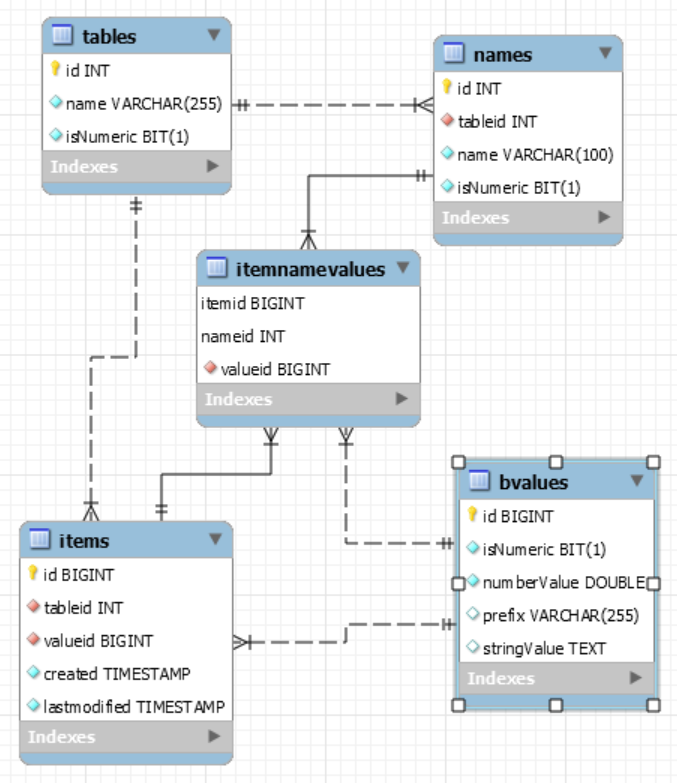
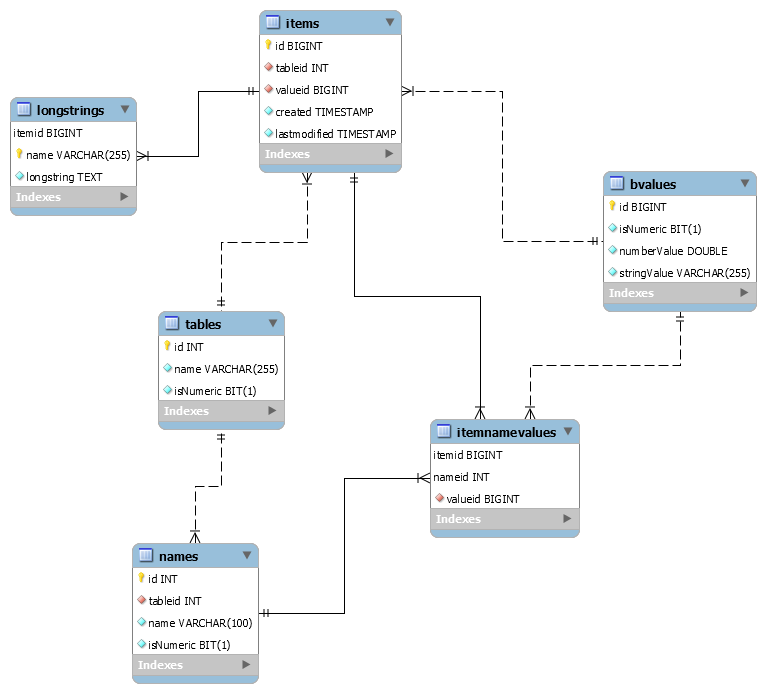
Took hacksaw to code, now taking hacksaw to docs

diff --git a/docs/index.html b/docs/index.html
@@ -58,14 +58,6 @@
 
             <li>
                 <a href="#gettingstarted">Getting Started</a>
-                <ol>
-                    <li><a href="#schema">internal db schema</a></li>
-                    <li><a href="#server">metastringserver</a></li>
-                    <li><a href="#msloader">msloader</a></li>
-                    <li><a href="#fscsv">fscsv</a></li>
-                    <li><a href="#msquery">msquery</a></li>
-                    <li><a href="#metafiles">metafiles</a></li>
-                </ol>
             </li>
         </ul>
 		
@@ -78,33 +70,6 @@
         <ul>
             <li><a href="#libraries">intro</a></li>
             <li>
-                <a href="#client">client</a>
-                <ol>
-                    <li><a href="#definecsv">define</a></li>
-                    <li><a href="#query">query</a></li>
-                    <li><a href="#api">api</a></li>
-                    <li><a href="#ops">ops</a></li>
-                    <li><a href="#queries">queries</a></li>
-                </ol>
-            </li>
-            <li>
-                <a href="#csv">csv</a>
-                <ol>
-                    <li><a href="#CsvPrep">CsvPrep</a></li>
-                    <li><a href="#CsvParser">CsvParser</a></li>
-                    <li><a href="#CsvTextReader">CsvTextReader</a></li>
-                </ol>
-            </li>
-            <li>
-                <a href="#lib-types">lib - types</a>
-                <ol>
-                    <li><a href="#Tables">Tables</a></li>
-                    <li><a href="#Items">Items</a></li>
-                    <li><a href="#Names">Names</a></li>
-                    <li><a href="#Values">Values</a></li>
-                    <li><a href="#NameValues">NameValues</a></li>
-                </ol>
-
                 <a href="#lib-mechanics">lib - mechanics</a>
                 <ol>
                     <li><a href="#Sql">Sql</a></li>
@@ -112,6 +77,15 @@
                     <li><a href="#Context">Context</a></li>
                     <li><a href="#Reader">Reader</a></li>
                     <li><a href="#Server">Server</a></li>
+                </ol>
+				
+                <a href="#lib-types">lib - types</a>
+                <ol>
+                    <li><a href="#Tables">Tables</a></li>
+                    <li><a href="#Items">Items</a></li>
+                    <li><a href="#Names">Names</a></li>
+                    <li><a href="#Values">Values</a></li>
+                    <li><a href="#NameValues">NameValues</a></li>
                 </ol>
             </li>
             <li>
@@ -133,13 +107,6 @@
             <li>Dynamic schema, easily add new columns and ignore stale columns</li>
             <li>Automatic indexing on every column, including full-text</li>
             <li>Internally normalized storage supports denormalized schemas</li>
-            <li>
-                Choose between 
-                <a href="https://www.sqlite.org/index.html">SQLite</a> 
-                and 
-                <a href="https://www.mysql.com/">MySQL</a>
-                to power metastrings
-            </li>
         </ol>
 
         <h1><a name="gettingstarted">Getting Started</a></h1>
@@ -148,145 +115,21 @@
         on GitHub
         <br>
         <br>
-        There are two ways to integrate metastrings into your codebase
-        <ol>
-            <li>
-                Use the <a href="#client">client API</a> in your application,
-                and run <a href="#server">metastringserver</a> on your server
-                <br>
-                This is the client-server database architecture,
-                like how you use
-                MySQL 
-                or 
-                <a href="https://www.postgresql.org/">PostreSQL</a>
-                <br>
-                Streaming I/O between client and server makes for high throughput and low resource usage
-            </li>
-            <li>
-                Use the <a href="#Command">Command class</a> in your application with no separate server
-                <br>
-                This is the server-less database architecture, 
-                used by SQLite 
-                and 
-                <a href="https://www.microsoft.com/en-us/microsoft-365/access">Microsoft Access</a>
-                <br>
-                The benefit of this approach is lower overhead and no separate server to maintain
-            </li>
-        </ol>
-
-        There are two database engines to choose to power metastrings
-        <ol>
-            <li>
-                SQLite - A file-based server-less SQL database engine
-                <br>
-                It is best suited to write once / read many,
-                not for general read/write access
-            </li>
-            <li>
-                MySQL - A general purpose client-server SQL database
-                <br>
-                No match for SQLite for absolute performance, 
-                but well suited to day-to-day read/write access
-            </li>
-        </ol>
-
-        <table border=1>
-            <tr>
-                <th>&nbsp;</th>
-                <th>Client-Server</th>
-                <th>Server-less</th>
-            </tr>
-            <tr>
-                <th>SQLite</th>
-                <td>
-                    Wrap SQLite in a client-server package for sharing a database.
-                    This is best employed for a period of single-user writing, 
-                    followed by multi-user read access
-                </td>
-                <td>
-                    For a desktop application in need of a database,
-                    put the metastrings NoSQL interface on top of SQLite
-                    for high productivity and simple database maintenance
-                </td>
-            </tr>
-            <tr>
-                <th>MySQL</th>
-                <td>
-                    Not recommended.  
-                    Adding another network layer on top of MySQL just adds unnecessary overhead
-                </td>
-                <td>
-                    A great combination of technologies;
-                    add NoSQL dynamic schema and automatic indexing to an awesome SQL database engine,
-                    and you've got amazing technology to power your next database project
-                </td>
-            </tr>
-        </table>
-        <br>
+		metastrings is a .NET class library that extends the functionality of a MySQL database.
+		This is a great combination of technologies;
+		add NoSQL dynamic schema and automatic indexing to an awesome SQL database engine,
+		and you've got amazing technology to power your next database project
 		
         <h3><a name="schema">Internal Database Schema</a></h3>
 		<img src="diagram.png">
 		<br>
         
-        <h2>Client-Server</h2>
-        metastrings ships with these programs for the client-server architecture...
-        <ol>
-            <li>
-                <a class=topic name=server>metastringserver</a>
-                -
-                For the client-server configuration, this is the HttpListener-driven server
-                <br>
-                Configure the .config file, especially where to put the database file, then you're off to the races!
-                <pre>
-Config settings:
-port - TCP port to bind to a serve
-log - Whether to write high-level goings to the console
-dump - Whether to write all JSON requests and responses to the console
-time - Whether to enable ScopeTiming so programs can get performance profiles</pre>
-            </li>
-            <li>
-                <a class=topic name=msloader>msloader</a>
-                -
-                CSV-ingesting client-server program for loading the database
-                <br>
-                As a quick test,
-                pipe the output of fscsv into msloader to load the database with file system data
-                <pre>
-Usage: msloader &lt;server URL&gt; &lt;table name&gt; [-reset] [-cold] [-time]
--reset: remove the Items from the database; add -cold to remove all names and values
--time: output a performance profile of where things took so long</pre>
-            </li>
-            <li>
-                <a class=topic name=fscsv>fscsv</a>
-                -
-                CSV-generating program for describing a file system
-                <br>
-                Provide one or more directory paths on the command prompt,
-                and it will get info about the files in those directories and output these as CSV to stdout
-                <br><br>
-            </li>
-            <li>
-                <a class=topic name=msquery>msquery</a>
-                -
-                Schema-describing, query-issuing, and SQL query-describing client-server client program
-                <pre>
-Usage: msquery &lt;server URL> [-schema &lt;table name, or -any-&gt;] [-query &lt;query file path&gt;] -sql -csv
--schema: use this to dump the column names for one table or all tables in the server
--query: use this to provide metastrings SQL to execute
-    pass -sql to output the SQLite SQL generated from the metastrings SQL
-    pass -csv to output results in CSV format, otherwise it's in a basic JSON-like name-value output</pre>
-            </li>
-            <li>
-                <a class=topic name=msquery>metaq</a>
-                -
-				Server-less interactive command processor
-				<br>
-				<br>
-				This is a very powerful tool for troubleshooting queries.
-				You enter your SQL queries, then the values for each parameter in the query,
-				and it writes your query, then the SQLite or MySQL query generated by metastrings to metaq.log in the current directory.
-				It also writes the query results to that file, so you get a complete query-to-results snapshot.
-                <pre>
+        <h3>metaq</h3>
+		metaq is a powerful tool for troubleshooting queries.
+		You enter your SQL query, then the value for each parameter in the query,
+		and it writes your query, then the SQLite or MySQL query generated by metastrings to metaq.log in the current directory.
+		It also writes the query results to that file, so you get a complete query-to-results snapshot.
+		<pre>
 > select id, title from beats where title matches @title
 
 @title: Fresh
@@ -298,102 +141,18 @@ relevance: 2.353236198425293
 Results: 1
 
 ></pre>          
-			</li>
-            <li>
-                <a class=topic name=metafiles>metafiles</a>
-                Benchmark for comparing MySQL and metastrings ingestion performance
-                <br>
-                <pre>Usage: metafiles &lt;path to directory to index and query&gt; ...</pre>
-                Pass one or more directory paths, and it gets file system info for every file and loads this info into
-				a MySQL table and a metastrings table
-                <br>
-                Initial results show that when metastrings has not seen the files before, it takes about as long as MySQL
-                <br>
-                If metastrings has the files, it's over 2X faster than MySQL, so metastrings is great at UPSERT
-                <br>
-                In terms of space on disk, metastrings' data file is about 25% larger than the MySQL schema size
-                <br>
-                So you trade a little cold ingestion performance and a little storage on disk, 
-				for the <a href="#features">features</a> outlined above
-            </li>
-        </ol>
 
-        <h2>Libraries</h2>
-        <h3><a name=libraries>intro</a></h3>
-        All libraries are built into one assembly, mslib.
-        They were once separate assemblies,
-        but this proved unwieldy when using different libraries in different situations
-
-        <h3><a name=client>client</a></h3>
-        This is the library that client-server clients use to interact with the database server
+        <h3><a name=lib-mechanics>lib-mechanics</a></h3>
+		Classes you interact with to implement your application
         <ul>
             <li>
-                <a class=topic name=definecsv>define</a> - streaming upsert
-                <ol>
-                    <li>Begin - Specify the table and column names</li>
-                    <li>WriteRecord - Write a row of data</li>
-                    <li>End - Finish up processing</li>
-                </ol>
-            </li>
-            <li>
-                <a class=topic name=query>query</a> - streaming SQL-like querying
-                <ol>
-                    <li>Execute - Issue the query</li>
-                    <li>Read - Get row data</li>
-                </ol>
-            </li>
-            <li>
-                <a class=topic name=api>api</a>
-                <ol>
-                    <li>Get - Get data from a table given primary key values</li>
-                    <li>Define - Object-based upsert</li>
-                    <li>GetSchema - Reveal the tables and columns in the DB</li>
-                    <li>QueryGet - Object-based query</li>
-                    <li>Delete - Delete rows from a table by primary key value</li>
-                    <li>Drop - remove a table, including its columns and rows</li>
-                    <li>Reset - remove all tables from the database, optionally names and values</li>
-                    <li>GetSql - get the SQLite SQL that will implement a metastrings query</li>
-                    <li>GetTiming - runtime the performance profile, optionally resetting the counters</li>
-                </ol>
-            </li>
-            <li>
-                <a class=topic name=ops>ops</a> - client-server communication for the api class
-            </li>
-            <li>
-                <a class=topic name=queries>queries</a> - classes passed between client and server
+                <a class=topic name=Sql>Sql</a> - convert a query into a SQLite/MySQL SQL statement
                 <br>
-                Note, when using the Command class server-less approach, you use these same classes
+                This is where the magic of SQL conversion takes place
             </li>
-        </ul>
-
-        <h3><a name=csv>csv</a></h3>
-        Rudimentary CSV library
-        <ul>
-            <li>
-                <a class=topic name=CsvPrep>CsvPrep</a> - Convert raw text into CSV
-                <ol>
-                    <li>
-                        CleanseCsv / DecodeCsv
-                        -
-                        Deal with nulls and multi-line text
-                    </li>
-                    <li>
-                        CreateCsv
-                        -
-                        Take a list of strings or objects and generate a line of CSV text
-                    </li>
-                </ol>
-            </li>
-            <li>
-                <a class=topic name=CsvParser>CsvParser</a>
-                -
-                Supports reading lines of CSV from stream-like data sources
-            </li>
-            <li>
-                <a class=topic name=CsvTextReader>CsvTextReader</a>
-                -
-                Line-reading interface and implementations
-            </li>
+            <li><a class=topic name=Command>Command</a> - implementation of metastrings API</li>
+            <li><a class=topic name=Context>Context</a> - database connection and MySQL management</li>
+            <li><a class=topic name=Reader>Reader</a> - database reader wrapper</li>
         </ul>
 
         <h3><a name=lib-types>lib-types</a></h3>
@@ -404,27 +163,7 @@ Results: 1
             <li><a class=topic name=Names>Names</a> - the columns of the database</li>
             <li><a class=topic name=Values>Values</a> - the row data</li>
             <li><a class=topic name=NameValues>NameValues</a> - get name-values literals from ids</li>
-        </ul>
-
-        <h3><a name=lib-mechanics>lib-mechanics</a></h3>
-        Classes that implement the server-side library
-        <ul>
-            <li>
-                <a class=topic name=Sql>Sql</a>
-                - convert a query into a SQLite/MySQL SQL statement
-                <br>
-                This is where the magic of client SQL conversion takes place
-            </li>
-            <li>
-                <a class=topic name=Command>Command</a>
-                - server-side implementation of client API
-                <br>
-                If it's defined in the <a href="#api">api</a>, it's implemented here.
-                You use this class directly to go server-less.
-            </li>
-            <li><a class=topic name=Context>Context</a> - database connection and SQLite/MySQL management</li>
-            <li><a class=topic name=Reader>Reader</a> - database reader wrapper</li>
-            <li><a class=topic name=Server>Server</a> - HttpListener-based server for the client-server configuration</li>
+            <li><a class=topic name=LongStrings>LongStrings</a> - support for long text strings</li>
         </ul>
 
         <h3><a name=utils>utils</a></h3>
@@ -449,9 +188,7 @@ Results: 1
                 like MetaStringException
             </li>
             <li>
-                <a class=topic name=Utils>Utils</a>
-                -
-                Low-level static class for getting things done
+                <a class=topic name=Utils>Utils</a> - Low-level static class for getting things done
                 <ol>
                     <li>HashString - SHA-256</li>
                     <li>Serialize / Deserialize - JSON wrappers</li>
